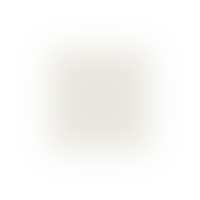
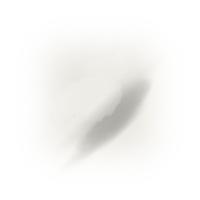
lots of tweaking around layers and blend modes, force renderer to CANVAS for cleaner ADD blend mode (no bounding edges)

Changed region(s): [[0.39, 0.39, 0.75, 0.78]]

diff --git a/src/pscripts/MainScene.js b/src/pscripts/MainScene.js
@@ -73,21 +73,23 @@ export default class MainScene extends Phaser.Scene
         this.blendMode = 'NORMAL';
         this.rotation = 0;
         
-        this.bottomLayer = this.add.container(0, 0);
+        // Layers in Order
+        this.consonantLayer = this.add.container(0, 0);
+        this.vowelLayer = this.add.container(0, 0);  
+        this.spaceLayer = this.add.container(0, 0);     
 
-        
-        this.midLayer = this.add.container(0, 0);
-        this.midTwoLayer = this.add.container(0, 0);
-        this.topLayer = this.add.container(0, 0);
+        this.motifBlendLayer = this.add.container(0, 0);
         this.motifLayer = this.add.container(0, 0);
-        
-        this.midLayer.blendMode = 'SUB';//SUB
-        this.midTwoLayer.blendMode = 'NORMAL';
+           
+        // Layer Blend Modes
+        this.consonantLayer.blendMode = Phaser.BlendModes.NORMAL;
+        this.vowelLayer.blendMode = Phaser.BlendModes.NORMAL;
+        this.spaceLayer.blendMode = Phaser.BlendModes.ADD;
 
-        this.topLayer.blendMode = 'ADD';//ADD
+        this.motifBlendLayer.blendMode = Phaser.BlendModes.ADD;
+        this.motifLayer.blendMode = Phaser.BlendModes.NORMAL;
 
-        this.motifLayer.blendMode = 'NORMAL';
-
+        // Stats - because why not?
         this.vowelCount = 0;
         this.consCount = 0;
         this.upperVowelCount = 0;
@@ -150,23 +152,6 @@ export default class MainScene extends Phaser.Scene
         
         if(isPunct){
 
-            // initially was doing some random motifs specifically based on punctuation type
-            // rather than that will want to try basing motifs on a strict pattern so that
-            // there will be parity across renders of the same text
-
-            // Randomized Motif Code
-
-            /*
-            // 46 = .  39 = '
-            if(charCode===46 || charCode===39) { 
-                const thisMotif = `${this.motifData.prefix}${Math.floor(Math.random()*4)}`;
-            }
-            // 44 = ,
-            if(charCode===44) { 
-                const thisMotif = `${this.motifData.prefix}${Math.floor(Math.random()*3)+3}`;
-            }
-            */
-
             // Sequential Motif Code
             const thisMotif = `${prefix}${pattern[this.motifData.currentIndex]}`;
 
@@ -184,24 +169,21 @@ export default class MainScene extends Phaser.Scene
                 
             this.rotation = (-1*this.motifData.rotation)+(Math.random()*(this.motifData.rotation*2));
             thisLetter.opacityEnd = .75*this.opacity;
-            this.topLayer.add(thisLetter);
+            this.motifBlendLayer.add(thisLetter);
             
         }else{
             if(charCode===32){
-                thisLetter.opacityEnd = .75*this.opacity;
-                this.midLayer.add(thisLetter);
+                thisLetter.opacityEnd = .25*this.opacity;
+                this.spaceLayer.add(thisLetter);
             }else{
-
-                //thisLetter.opacityEnd = .85*this.opacity;
-                //this.bottomLayer.add(thisLetter);
                     
                 if(isVowel){
                     thisLetter.opacityEnd = .85*this.opacity;
-                    this.bottomLayer.add(thisLetter);
+                    this.vowelLayer.add(thisLetter);
                     this.vowelCount ++;
                 }else{
                     thisLetter.opacityEnd = .85*this.opacity;
-                    this.bottomLayer.add(thisLetter);
+                    this.consonantLayer.add(thisLetter);
                     this.consCount ++;
                 } 
                 

diff --git a/src/pscripts/Content.js b/src/pscripts/Content.js
@@ -11,9 +11,9 @@ const  Content = {
 
         rendering: {
             canvasPixelDimension:{width:1300, height:800},
-            smallImg:100,
+            smallImg:125,
             largeImg:200,
-            jitter:2,
+            jitter:5,
             pallette: "burch_hills_blur",
             motifPrefix: "hills_",
             motifPattern: [0,0,0,0,1],

diff --git a/src/components/CanvasContainer.jsx b/src/components/CanvasContainer.jsx
@@ -10,7 +10,7 @@ let config = {
     parent: 'phaser-container',
     scene: MainScene,
     transparent: true,
-    type: Phaser.AUTO,
+    type: Phaser.CANVAS,
     width: 0,
 
     physics: {
